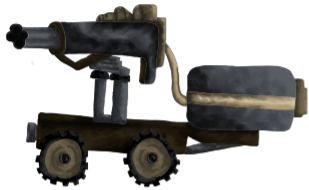
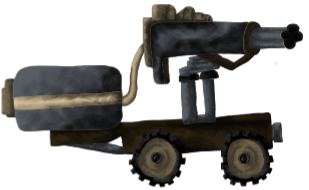
2e anim, mais la dodo hein, bah oui quand même il est 2h30

diff --git a/src/systems/AssetLoader.cpp b/src/systems/AssetLoader.cpp
@@ -16,11 +16,16 @@ void Assets::loadAssetsFromFiles() {
 	Shared::swordTexture.loadFromFile("assets/player/sword.jpg");
 	Shared::groundTexture.loadFromFile("assets/maps/tile test/bob.jpg");
 	Shared::floorTexture.loadFromFile("assets/maps/tileset/tiles.png");
+
 	Shared::ennemyTexture.loadFromFile("assets/ennemies/newTilsetEnemy.png");
+
 	Shared::tankTexture.loadFromFile("assets/ennemies/retouche/tankTile.png");
 	Shared::tankTextureR.loadFromFile("assets/ennemies/retouche/tankTileR.png");
 	Shared::droneTexture.loadFromFile("assets/ennemies/droneTest.png");
-	Shared::incendTexture.loadFromFile("assets/ennemies/retouche/incendTile.png");
+
+	Shared::incendTextureR.loadFromFile("assets/ennemies/retouche/incendTile.png");
+	Shared::incendTexture.loadFromFile("assets/ennemies/retouche/incendTileR.png");
+
 	Shared::projectileTexture.loadFromFile("assets/player/sword.jpg");
 	Shared::dayTexture.loadFromFile("assets/player/sword.jpg");
 	Shared::nightTexture.loadFromFile("assets/maps/tile test/bob.jpg");

diff --git a/src/map/Map.cpp b/src/map/Map.cpp
@@ -97,7 +97,7 @@ void Map::loadMap(int mapNum, vector<std::unique_ptr<Ennemy>>& ennemies, Player&
             if (tileValue == 17)
             {
                
-                ennemies.push_back(make_unique<Incendiaire>(i / 2 * gridCellSize, map.size() * gridCellSize, Shared::incendTexture, Shared::tankTextureR, 135, 84, 120, 70, 80, 60)); // scale avec dif de 50 = perfect 
+                ennemies.push_back(make_unique<Incendiaire>(i / 2 * gridCellSize, map.size() * gridCellSize, Shared::incendTexture, Shared::incendTextureR, 132, 80, 120, 70, 80, 60)); // scale avec dif de 50 = perfect 
             } 
         }
             map.push_back(row);

diff --git a/src/systems/Datas.cpp b/src/systems/Datas.cpp
@@ -11,10 +11,13 @@ sf::Texture Shared::projectileTexture;
 
 //assets des ennemis
 sf::Texture Shared::ennemyTexture;
+sf::Texture Shared::ennemyTextureR;
 sf::Texture Shared::tankTexture;
 sf::Texture Shared::tankTextureR;
 sf::Texture Shared::droneTexture;
+sf::Texture Shared::droneTextureR;
 sf::Texture Shared::incendTexture;
+sf::Texture Shared::incendTextureR;
 
 //assets des tiles
 sf::Texture Shared::groundTexture;

diff --git a/src/systems/Datas.hpp b/src/systems/Datas.hpp
@@ -42,10 +42,13 @@ public:
 
 	// assets ennemy
 	static sf::Texture ennemyTexture;
-	static sf::Texture tankTexture;
+	static sf::Texture ennemyTextureR;
+	static sf::Texture tankTexture;	
 	static sf::Texture tankTextureR;
 	static sf::Texture droneTexture;
+	static sf::Texture droneTextureR;
 	static sf::Texture incendTexture;
+	static sf::Texture incendTextureR;
 
 	//assets map
 	static sf::Texture groundTexture; 

diff --git a/src/entities/incendiaire.cpp b/src/entities/incendiaire.cpp
@@ -8,7 +8,7 @@ Incendiaire::Incendiaire(unsigned long long x, unsigned long long y, sf::Texture
 	//assets.resize(spriteEnnemy, 100, 100);
 	life = 5; 
 	speed = 0.5;
-	currentState = CHASE;
+	//currentState = CHASE;
 	radiusDetection = 100;
 	circle.setRadius(radiusDetection);
 	circle.setOrigin(radiusDetection, radiusDetection);
